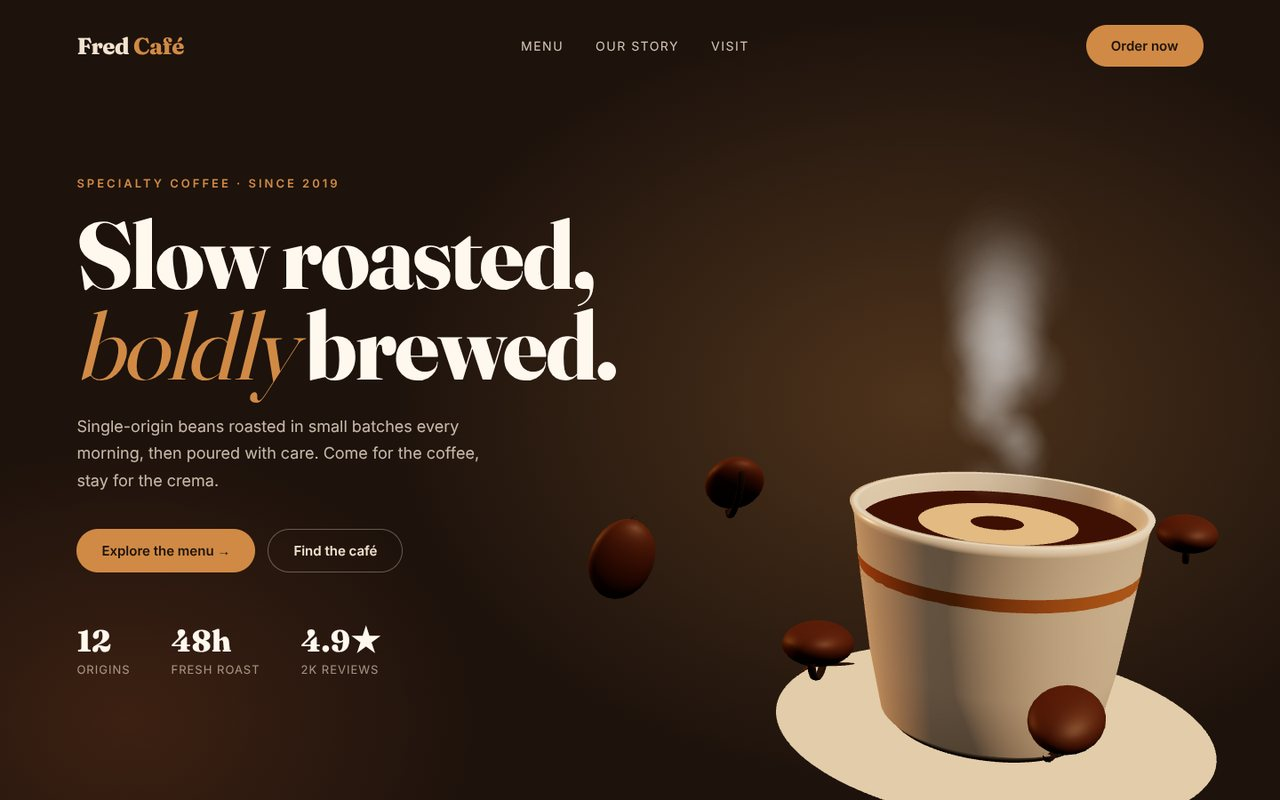
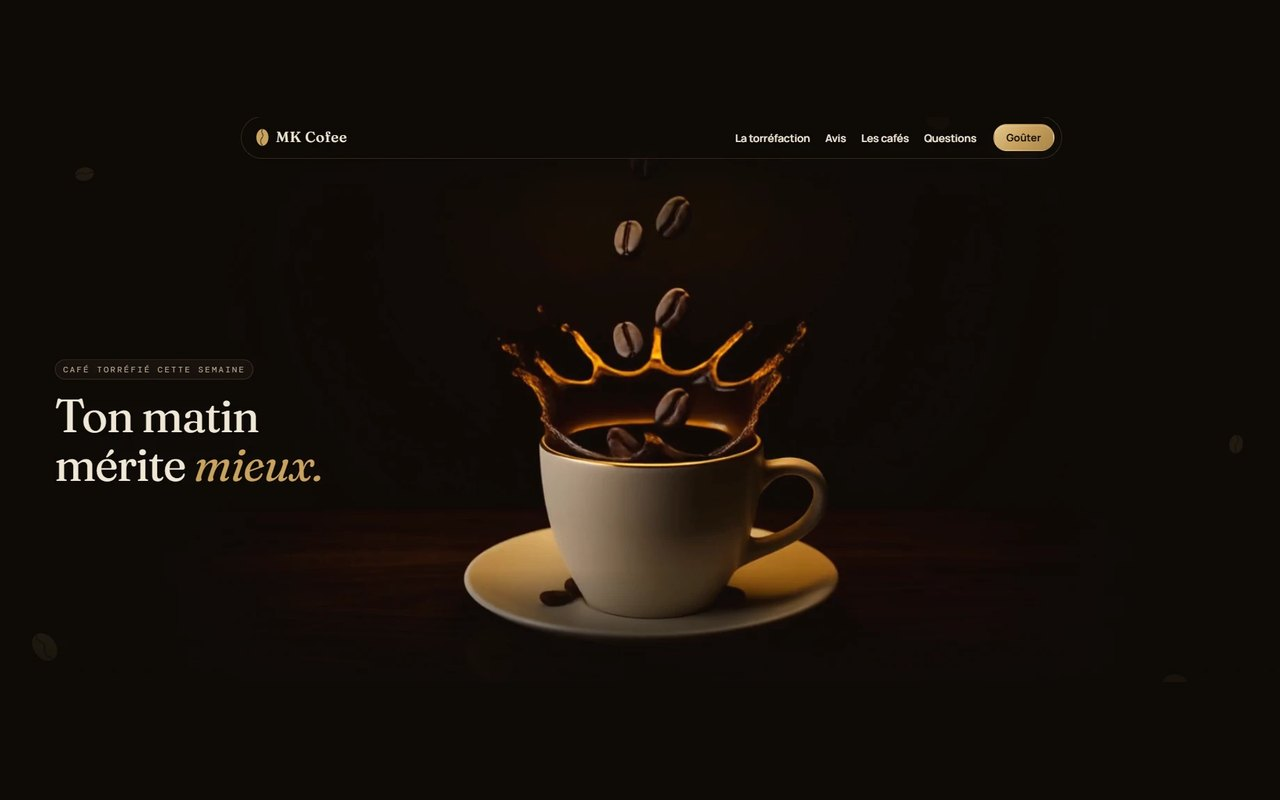
Carrousel : vraies captures pour MK Cofee, MK Croquetta et Visite Business Bay
Claude-Session: https://claude.ai/code/session_01PkMXv2YrJNL6SKy6N8Xkj4

diff --git a/src/components/MarqueeSection.tsx b/src/components/MarqueeSection.tsx
@@ -7,12 +7,12 @@ import { PILL_GRADIENT_STYLE } from './ContactButton';
 
 // Fred's own work: demo sites (live under /demos/...) and Airbnb video tours.
 const PROJECTS: FlexCarouselItem[] = [
-  { src: '/showcase/fred-cafe.jpg', alt: 'Fred Café 3D coffee website', title: 'Fred Café', subtitle: '3D website · Live demo ↗', href: 'https://mk-cofee.vercel.app/' },
+  { src: '/showcase/fred-cafe.jpg', alt: 'Fred Café 3D coffee website', title: 'MK Cofee', subtitle: '3D website · Live demo ↗', href: 'https://mk-cofee.vercel.app/' },
   { src: '/showcase/airbnb-1.jpg', video: '/showcase/airbnb-1.mp4', alt: 'Airbnb 4K video walkthrough', title: 'Modern Family Home', subtitle: 'Airbnb video tour' },
-  { src: '/showcase/fred-croquetta.jpg', alt: 'Fred Croquetta 3D dog food website', title: 'Fred Croquetta', subtitle: '3D website · Live demo ↗', href: 'https://mk-croquetta.vercel.app/' },
+  { src: '/showcase/fred-croquetta.jpg', alt: 'Fred Croquetta 3D dog food website', title: 'MK Croquetta', subtitle: '3D website · Live demo ↗', href: 'https://mk-croquetta.vercel.app/' },
   { src: '/showcase/fred-plumbing.jpg', alt: 'Fred Plumbing booking app', title: 'Fred Plumbing', subtitle: 'Mobile app · Live demo ↗', href: '/demos/fred-plumbing/' },
   { src: '/showcase/casa-luma.jpg', alt: 'Casa Luma rental listing website', title: 'Casa Luma', subtitle: 'Airbnb listing · Live demo ↗', href: '/demos/casa-luma/' },
-  { src: '/showcase/visite-dubai.jpg', alt: 'Business Bay Dubai apartment tour website', title: 'Visite Business Bay', subtitle: 'Property tour website · Live demo ↗', href: 'https://visite-dubai-business-bay.vercel.app/' },
+  { src: '/showcase/visite-dubai.jpg', alt: 'Business Bay Dubai apartment tour website', title: 'Visite Business Bay', subtitle: '360° virtual tour · Live demo ↗', href: 'https://visite-dubai-business-bay.vercel.app/' },
   { src: '/showcase/fred-studio.jpg', alt: 'Fred Studio agency website', title: 'Fred Studio', subtitle: 'Business website · Live demo ↗', href: '/demos/fred-studio/' },
 ];
 
